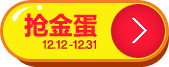
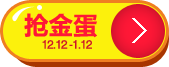
#537 统一日期

Changed region(s): [[0.4438, 0.597, 0.5917, 0.7463]]

diff --git a/web/css/jl.ui.Dec.css b/web/css/jl.ui.Dec.css
@@ -25,7 +25,6 @@ a{ color: #fff;}
 .decRuleMain{ margin-top: 30px;}
 .decRuleMain .decTime{ font-size: 18px; color: #e89d07; margin-top: 20px;}
 .decRuleMain li{ margin-top: 15px;}
-.decTopCon{ }
 .decTopCon .goBtn, .decRuleBtn, .backTop, .decTopCon .timestamp{ cursor: pointer;}
 .decTopCon .logo, .decTopCon .login, .decTopCon .goBtn, .decTopCon .timestamp{ position: absolute; z-index: 1000;}
 .decTopCon .logo{ top: 10px; left: 0;}
@@ -58,7 +57,7 @@ a{ color: #fff;}
 .winnerList h2{ font-size: 26px; line-height: 35px;}
 .winnerList .mask{ margin-top: 15px; width: 312px; height: 70px; overflow: hidden;}
 .winnerList li{ line-height: 35px;}
-.decListMain{ margin-top: 30px; background-color: #e0a100;}
+.decListMain{ margin-top: 30px; background-color: #e0a100; padding-bottom: 14px;}
 .decListMain h2{ font-size: 28px; font-weight: bold; line-height: 55px; height: 56px; padding-left: 15px; background: url(../images/december/navBg.png) no-repeat top; overflow: hidden;}
 .decListMain h2.sort02{ background-position: 0 -60px;}
 .decListMain h2.sort03{ background-position: 0 -120px;}
@@ -70,14 +69,16 @@ a{ color: #fff;}
 .decListMain h2.sort09{ background-position: 0 -480px;}
 .decListMain h2.sort10{ background-position: 0 -540px;}
 .decListMain h2.sort11{ background-position: 0 -600px;}
-.decListMain ul{ margin-left: 14px; margin-top: 14px;}
-.decListMain li{ float: left; margin-bottom: 14px; margin-right: 14px;}
+.decListMain ul{ margin-left: 14px;}
+.decListMain li{ float: left; margin-top: 14px; margin-right: 14px;}
 .decListMain li span, .decListMain li b{ display: inline-block; *display: inline; *zoom: 1; vertical-align: top;}
 .decListMain li .proDetail{ color: #828282; font-family: "宋体"; background-color: #ececec; width: 170px; height: 40px; padding: 5px; line-height: 20px; overflow: hidden;}
 .decListMain li .proDetail b, .decListMain li .proDetail strong{ color: #cc122a; font-size: 12px;} 
 .decListMain li .proDetail b{ padding-left:5px; padding-right: 3px;}
 .decListMain li .proDetail strong{ font-family: "微软雅黑"; font-size: 18px; font-weight: bold; margin-right: 10px;}
 .decListMain li .bugBtn{ width: 32px; height: 36px; padding: 7px 10px 7px 8px; line-height: 18px; font-size: 13px; font-weight: bold; background: #cc122a url(../images/december/arrow.png) no-repeat 38px 30px;}
+.decListMain li .proDetail a{ color: #828282;}
+.decListMain li .proDetail a:hover{ text-decoration: underline;}
 .decListMain li .proDetail span{text-decoration:line-through;}
 .fixMask{ position: fixed; z-index: 9998; left: 0; top: 0; width: 100%; height: 100%; opacity: .6; filter: alpha(opacity=60); background-color: #000;}
 .popupCon{ position: fixed; z-index: 9999; width: 990px; left: 50%; margin-left: -495px; top: 0;}

diff --git a/web/js1408/jl.ui.dec.js b/web/js1408/jl.ui.dec.js
@@ -133,7 +133,7 @@ function countDown(){
         }
         $('.countDownTime').html(str);
     }
-    var countdownStart, endDate = new Date('2014/12/31 17:58:50');
+    var countdownStart, endDate = new Date('2015/1/20 9:00:00');
     countdown(endDate);
     countdownStart = setInterval(function(){ countdown(endDate)}, 1E3);
 }
